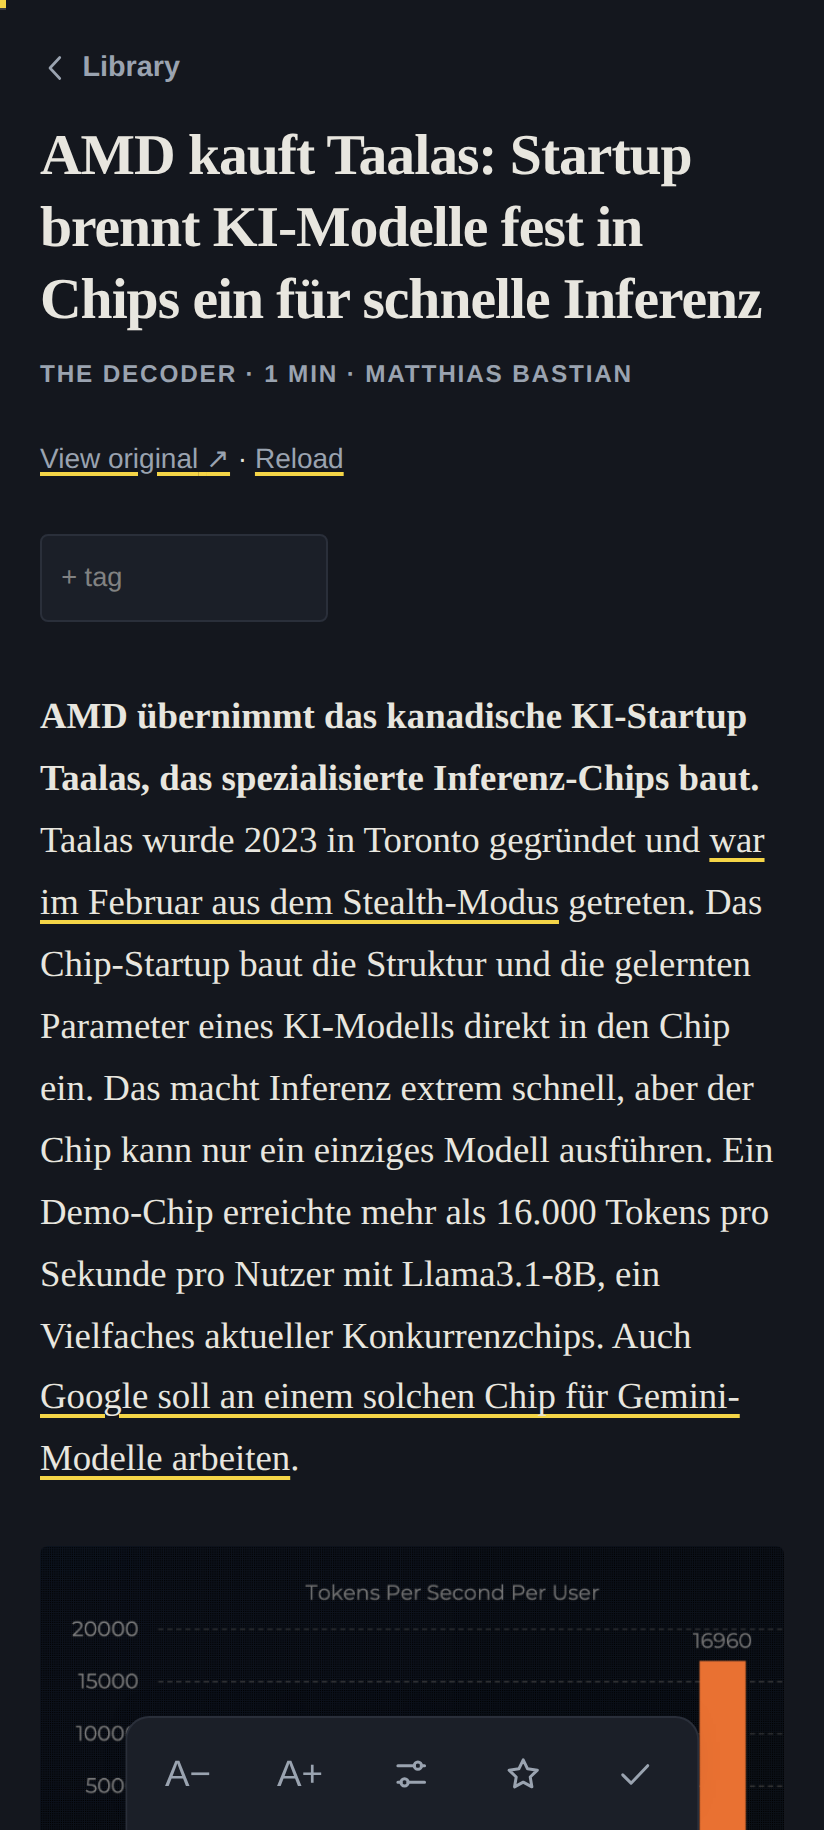
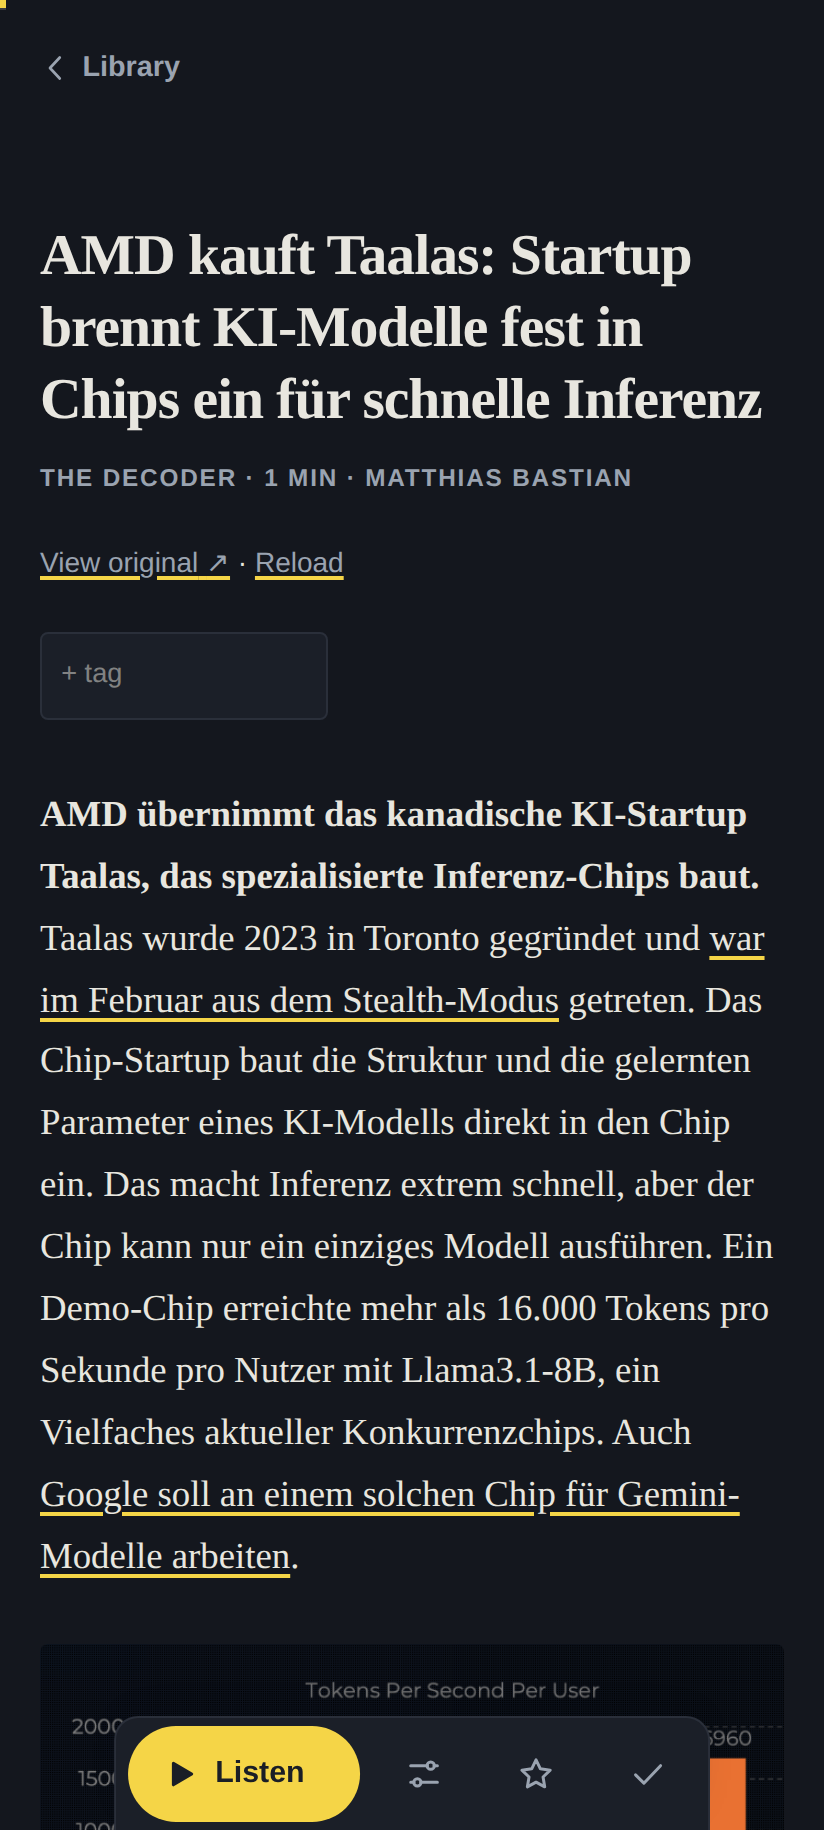
fix: an article had no typography of its own
Run 7 of the twenty-run loop, read on the phone rather than in a browser.

Tailwind's preflight zeroes margins and makes every heading inherit the body's
size and weight. Nothing had put them back, so an extracted article was one
unbroken column: no gap between paragraphs, section headings set in body type,
lists without markers. Measured on the device before believing it — .reader p
had margin 0, .reader h2 came out at 16.56px weight 400, which is exactly the
body.

Restored in em, so it scales with the four reader sizes instead of drifting
apart from them: paragraphs 0.85em apart, h2 at 1.3em and h3 at 1.12em both at
700, with 1.7em of air above a heading against 0.45em below, lists with their
markers and indent, room around blockquote, pre and hr. reader-render: 148
renders, 0 failures, the measure guard unchanged.

Two instruments were dead and nobody had noticed: reader-render.mjs opened
IndexedDB at version 2 and died on the app's schema 3, and it never dismissed
the welcome screen, so the library that creates the database never mounted.

The read-aloud chain is now proven end to end on the S23 Ultra: a real article
saved from a link, Listen tapped, media session PLAYING with the article title,
the live region reading "Reading part 1 of 13". And the open question in
docs/SPEECH.md is answered — Pause in FoldPage's own media notification really
does stop the player (PLAYING(3) -> PAUSED(2), and the in-app button follows).

diff --git a/app/globals.css b/app/globals.css
@@ -411,11 +411,72 @@ mark {
   cursor: default;
   opacity: 0.6;
 }
+/* The article's own structure — and it had none.
+ *
+ *  Tailwind's preflight zeroes margins and makes every heading inherit the
+ *  body's size and weight. Nothing here put them back, so on a phone an
+ *  extracted article was one unbroken column: paragraphs with no gap between
+ *  them, and section headings set in body type. Measured on the device before
+ *  believing it: `.reader p` had `margin: 0px`, `.reader h2` came out at
+ *  16.56 px and weight 400 — exactly the body.
+ *
+ *  Everything below is in `em`, so it scales with the four reader sizes
+ *  instead of drifting apart from them. */
 .reader h1,
 .reader h2,
-.reader h3 {
+.reader h3,
+.reader h4 {
   line-height: 1.25;
   text-wrap: balance;
+  font-weight: 700;
+  /* Space above belongs to the heading, and clearly more of it than below:
+     that difference is what says "a new part starts here" rather than "a bold
+     line happens to be here". */
+  margin: 1.7em 0 0.45em;
+}
+.reader h2 {
+  font-size: 1.3em;
+}
+.reader h3 {
+  font-size: 1.12em;
+}
+.reader h4 {
+  font-size: 1em;
+  letter-spacing: 0.01em;
+}
+/* A heading that opens the body has nothing to be separated from. */
+.reader > :first-child,
+.reader-body > :first-child {
+  margin-top: 0;
+}
+.reader p {
+  margin: 0 0 0.85em;
+}
+.reader ul,
+.reader ol {
+  margin: 0 0 1em;
+  padding-left: 1.35em;
+}
+.reader ul {
+  list-style: disc;
+}
+.reader ol {
+  list-style: decimal;
+}
+.reader li {
+  margin: 0 0 0.35em;
+}
+.reader li::marker {
+  color: var(--muted);
+}
+.reader blockquote,
+.reader pre,
+.reader hr {
+  margin: 1.25em 0;
+}
+.reader hr {
+  border: 0;
+  border-top: 1px solid var(--line);
 }
 /* Reader settings, driven entirely by attributes on <html> (see lib/display.ts).
    Every one of them degrades to the default on a WebView that does not know

diff --git a/docs/UI-BASELINE.md b/docs/UI-BASELINE.md
@@ -352,3 +352,49 @@ breach, (2) `Appearance` is six segmented controls in a row, (3) settings has
 no live region at rest, (4) perceived latency and rerenders have not been
 measured this session, (5) the reader has not been driven through a full
 read-aloud on the device this run.
+
+### Run 7 — the article gets its own typography back, and the chain is proven
+
+**Found by reading a real article on the phone:** an extracted article had no
+structure at all. Measured through the DevTools protocol rather than guessed:
+
+```
+.reader p   → margin-top 0px, margin-bottom 0px
+.reader h2  → font-size 16.56px, font-weight 400   (body: 16.56px)
+```
+
+Tailwind's preflight zeroes margins and makes headings inherit the body's size
+and weight, and nothing had put them back. So every saved article was one
+unbroken column, with section headings set in body type and no gap between
+paragraphs. On the app's central surface.
+
+**Restored, all in `em` so it scales with the four reader sizes:** paragraphs
+`0.85em` apart; `h2` at `1.3em`/700, `h3` at `1.12em`/700, `1.7em` of air above
+a heading against `0.45em` below — that difference is what says "a new part
+starts here"; lists get their markers and indent back; `blockquote`, `pre` and
+`hr` get room. `npm run reader-render`: **148 renders, 0 failures**, measure
+guard unchanged.
+
+**Two instruments were broken and are fixed:** `reader-render.mjs` opened
+IndexedDB at version 2 and died on the app's schema 3 (`VersionError`), and it
+never dismissed the welcome screen, so the library that creates the database
+never mounted. Both were silent until this run needed them.
+
+**The read-aloud chain, end to end on the S23 Ultra:** a real article saved
+from a link (the 404 path checked first — "Page answered with 404", a plain
+sentence), opened, `Listen` tapped. `dumpsys media_session` shows FoldPage
+`active=true`, `state=PLAYING(3)` with the article title as metadata; the
+in-app control turns into a quiet `Pause`; the live region reads "Reading part
+1 of 13"; the spoken paragraph is tinted (measured 8.4:1 against the dark
+theme, so it stays legible).
+
+**And an open question in `docs/SPEECH.md` is now answered:** tapping **Pause**
+in FoldPage's media notification really does stop the player —
+`PLAYING(3)` → `PAUSED(2)`, and the button in the app follows. What still does
+not arrive is an outside `cmd media_session dispatch pause`, which matches the
+documented consequence of holding transient audio focus.
+
+**Verification:** `npm run lint` silent · `npm test` 57 pass · `npm run build`
+ok · `ui:check` seeded/empty/offline clean · `jargon` clean · `voice:check`
+24/24 · `reader-render` 148/0 · on the device: paragraphs separated, headings
+visibly headings, reading aloud runs and pauses from the notification.

diff --git a/docs/SPEECH.md b/docs/SPEECH.md
@@ -132,9 +132,14 @@ FoldPage de.ithandwerk.foldpage/FoldPage/149 (userId=0)
    One UI selbst. Die FoldPage-Benachrichtigung ist da (im Log als
    `0|de.ithandwerk.foldpage|4711| ... ACTIONS: Pausieren`), sie liegt im
    Benachrichtigungs-Schatten.
-   **Noch nicht am Gerät geprüft:** ob Pause/Stop aus dieser Benachrichtigung
-   den Player wirklich anhalten — die Kette ist gebaut und der Receiver ist
-   registriert, aber ein Fingerdruck darauf steht aus.
+   **Am Gerät geprüft (13.08.2026):** Ein Fingerdruck auf **Pause** in dieser
+   Benachrichtigung hält den Player wirklich an. `dumpsys media_session` vor
+   dem Tippen `state=PLAYING(3)`, danach `state=PAUSED(2)`, und der Knopf in
+   der App springt von „Pause" zurück auf „Listen" — die Kette
+   Benachrichtigung → `SpeechControlReceiver` → Player → Oberfläche schließt
+   sich also. Was weiterhin **nicht** ankommt, ist
+   `cmd media_session dispatch pause` von aussen: der Zustand blieb
+   unverändert, passend zum Befund über die Fokus-Art eine Zeile weiter oben.
 
 ⚠ `POST_NOTIFICATIONS` steht auf `granted=false` und die Benachrichtigung
 erschien trotzdem, weil Medien-Benachrichtigungen einen eigenen Weg gehen. Auf

diff --git a/.claude/JOURNAL.md b/.claude/JOURNAL.md
@@ -4,7 +4,7 @@ Automatisch gepflegt vom Claude-Code-Hook `~/.claude/hooks/journal.py`. Neueste 
 Dauerhafte Regeln gehoeren in CLAUDE.md, nicht hierher.
 
 <!-- session:c6b0ecee-85c6-432f-bd93-b267b8c403c4 -->
-## 2026-08-12 23:04 · Branch `main`
+## 2026-08-12 23:32 · Branch `main`
 Auftrag: /plugin-dev:create-plugin Create a project-specific FoldPage UX and product engineering skill named foldpage-product-ux. The skill is ONLY for this repository. 
 Geaendert: `.claude/skills/foldpage-product-ux/SKILL.md`, `.claude/skills/foldpage-product-ux/references/voice-and-language.md`, `.claude/skills/foldpage-product-ux/references/ui-quality-bar.md`, `.claude/skills/foldpage-product-ux/scripts/ui-check.mjs`, `.claude/skills/foldpage-product-ux/references/playwright-checks.md`, `package.json`, `CLAUDE.md`, `.claude/ralph-loop.local.md`, `docs/UI-BASELINE.md`, `components/VoiceOnboarding.tsx`, `app/settings/page.tsx`, `scripts/jargon-audit.mjs`, `... +10 weitere`
 

diff --git a/.claude/ralph-loop.local.md b/.claude/ralph-loop.local.md
@@ -1,6 +1,6 @@
 ---
 active: true
-iteration: 5
+iteration: 6
 session_id: c6b0ecee-85c6-432f-bd93-b267b8c403c4
 max_iterations: 20
 completion_promise: "FOLDPAGE_20_RUNS_COMPLETE"
